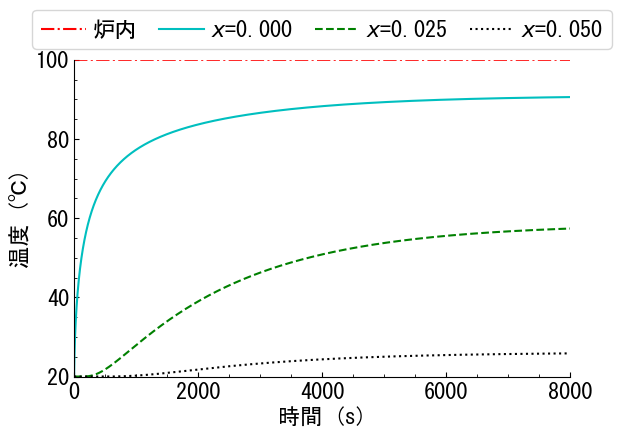
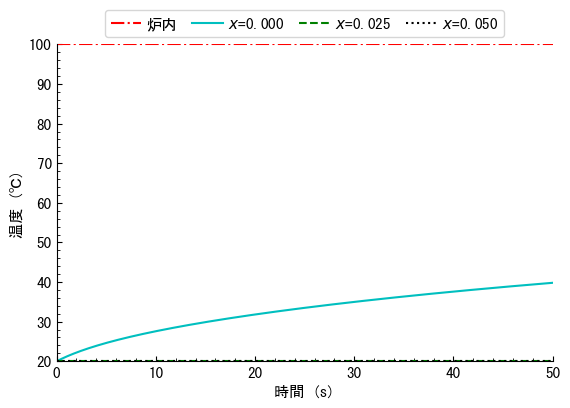
シミュレーターver.2 卒論本文2

diff --git a/main.py b/main.py
@@ -6,9 +6,9 @@ from config import N_CELL, T_0_WD, T_AIR_1, T_AIR_2_100, ALPHA_WD, D_t, D_X, q_F
 
 fig_number = 6
 #フォルダ
-folder_name = '100℃一定片面'
+# folder_name = '100℃一定片面'
 # folder_name = '100℃一定両面'
-# folder_name = '標準加熱曲線'
+folder_name = '標準加熱曲線'
 if folder_name == '100℃一定片面':
     TIME_END = TIME_END_100
     T_AIR = T_AIR_1
@@ -23,8 +23,8 @@ if folder_name == '標準加熱曲線':
 N_TIME = int(TIME_END / D_t)  #[個]　秒の区切りの個数、0秒を入れる場合は+1する
 
 #グラフタイトル
-# fig_title = '標準加熱曲線'
-fig_title = '温度推移'
+fig_title = '標準加熱曲線'
+# fig_title = '温度推移'
 # fig_title = '温度分布'
 #比較
 # comparison = '密度'
@@ -97,20 +97,13 @@ for n in range(N_TIME + 1):
 
             if x == 0:
                 #y_axis.append(h_air)
-                T_wd[n][0] = T_wd[n - 1][0] + (ALPHA_WD * D_t / (D_X**2)) * (T_wd[n - 1][1] - T_wd[
-                    n - 1][0]) + (D_t * h_air / (D_X * rho_c_wd)) * (T_fu - T_wd[n - 1][0]) + (
-                        D_t * q_FU) / (D_X * rho_c_wd) + (D_t * q_GEN) / rho_c_wd
+                T_wd[n][0] = T_wd[n - 1][0] + (ALPHA_WD * D_t / (D_X**2)) * (T_wd[n - 1][1] - T_wd[n - 1][0]) + (D_t * h_air / (D_X * rho_c_wd)) * (T_fu - T_wd[n - 1][0]) + (D_t * q_FU) / (D_X * rho_c_wd) + (D_t * q_GEN) / rho_c_wd
                 #DO:差分法の実例がある本探す　#iPadで算出した左はじの式 TODO:内部発熱(最後の項）を考慮する（炭化について）TODO:輻射（最後から2番目の項）の考え方、おそらく違うので再考
             elif 0 < x < N_CELL:
-                T_wd[n][x] = T_wd[n - 1][x] + (ALPHA_WD * D_t / (D_X**2)) * (T_wd[n - 1][
-                    x - 1] + T_wd[n - 1][x + 1] - 2 * T_wd[n - 1][x]) + (D_t * q_GEN) / rho_c_wd
+                T_wd[n][x] = T_wd[n - 1][x] + (ALPHA_WD * D_t / (D_X**2)) * (T_wd[n - 1][x - 1] + T_wd[n - 1][x + 1] - 2 * T_wd[n - 1][x]) + (D_t * q_GEN) / rho_c_wd
                 #TODO:内部発熱(最後の項）を考慮する（炭化について）
             elif x == N_CELL:
-                T_wd[n][N_CELL] = T_wd[n - 1][N_CELL] + (ALPHA_WD * D_t / (D_X**2)) * (
-                    T_wd[n - 1][N_CELL - 1] - T_wd[n - 1][N_CELL]) - (
-                        D_t * h_air /
-                        (D_X * rho_c_wd)) * (T_wd[n - 1][N_CELL] - T_AIR) + (D_t * q_GEN) / rho_c_wd
-                #DO:試験体の厚さを十分厚くすれば、非加熱面の状態を考慮しなくていい
+                T_wd[n][N_CELL] = T_wd[n - 1][N_CELL] + (ALPHA_WD * D_t / (D_X**2)) * (T_wd[n - 1][N_CELL - 1] - T_wd[n - 1][N_CELL]) - (D_t * h_air / (D_X * rho_c_wd)) * (T_wd[n - 1][N_CELL] - T_AIR) + (D_t * q_GEN) / rho_c_wd
                 #TODO:内部発熱(最後の項）を考慮する（炭化について）DO:難燃処理層最後尾の次をどう考えるか（荷重支持部表面？長田さんは炉内温度？一面加熱だから、布施さんの外温と同じ？）
 
             # if fig_title == '':
@@ -182,11 +175,7 @@ if folder_name == '100℃一定片面' or folder_name == '100℃一定両面':
         plt.plot(x_axis, y_axis_2, "-c", label='$ \mathit{x} $=0.000')
         plt.plot(x_axis, y_axis_3, "--g", label='$ \mathit{x} $=0.025')
         plt.plot(x_axis, y_axis_4, ":k", label='$ \mathit{x} $=0.050')
-        plt.legend(loc='lower center',
-                   bbox_to_anchor=(0.5, 1),
-                   ncol=4,
-                   columnspacing=1,
-                   handletextpad=0.32)  #凡例
+        plt.legend(loc='lower center', bbox_to_anchor=(0.5, 1), ncol=4, columnspacing=1, handletextpad=0.32)  #凡例
 
     if fig_title == '温度分布':
         #軸範囲
@@ -203,6 +192,7 @@ if folder_name == '標準加熱曲線':
         #軸範囲
         plt.xlim(0, TIME_END)  #x軸範囲
         plt.ylim(0, 350)  #y軸範囲
+        # plt.ylim(0, 1200)  #y軸範囲
         plt.plot(x_axis, y_axis, '-', color="black")  #プロット
     if fig_title == '温度推移':
         #軸範囲

diff --git a/config.py b/config.py
@@ -1,15 +1,16 @@
 TIME_END_100 = 8000  #[s]　加熱時間(100℃一定)
 TIME_END_HEAT_RESISTANCE = 50  #[s]　加熱時間(標準加熱曲線)
+# TIME_END_HEAT_RESISTANCE = 180 * 60  #[s]　加熱時間(標準加熱曲線)
 LENGTH = 50 / 1000  #[m]　試験体厚さ
 N_CELL = 50  #[個]　セルの個数 50以上が良さげ、50→250でおしりが1℃上昇
 D_t = 0.1  #[s]　単位時間
 
-q_FU = 0.0 * 1000  #[W/m²]　輻射 TODO:一旦輻射以外で考える。てか、表面温度を入力(既知と)して、その後ろをかんがえる。
+q_FU = 0.0 * 1000  #[W/m²]　輻射 (hに含まれているとした)
 q_GEN = 0.0  #[W/m³]　内部発熱
 T_0_WD = 20.0  #[℃]　木材の初期温度
 T_AIR_1 = 20  #[℃]
 T_AIR_2_100 = 100  #[℃]
 RHO_WD_0 = 350.0  #[kg/m³] 全乾密度　引用:木材の物理p37
-ALPHA_WD = 0.18 / 10**6  #[m²/s] TODO:高温域まで対応してる式かどうかTODO:一定値としていいのかな？引用:木材の物理p63、先生に確認
+ALPHA_WD = 0.18 / 10**6  #[m²/s] 引用:木材の物理p63、先生に確認
 D_X = LENGTH / N_CELL  #[m]　セルの幅
 # N_TIME = int(TIME_END / D_t)  #[個]　秒の区切りの個数、0秒を入れる場合は+1する

diff --git a/functions.py b/functions.py
@@ -24,7 +24,7 @@ def get_h_air_wd(T_wd):
         W/m²*K: 熱伝達率
     """
     return 0.168 * T_wd + 4.64
-    #考察:引用:由田、式9,10、加熱面,非加熱面同じ式のため、非加熱面ではあるが空気と木材の式10を採用、式中の温度は低温度側の物質の温度を採用してそう？もしくは着目する物体？
+    #考察:引用:由田、式9,10、加熱面,非加熱面同じ式のため、非加熱面ではあるが空気と木材の式10を採用
 
 
 def get_lambda_wd(T_wd, T1_wd=20, lambda1=0.09, rho_wd_0=RHO_WD_0):
@@ -40,7 +40,7 @@ def get_lambda_wd(T_wd, T1_wd=20, lambda1=0.09, rho_wd_0=RHO_WD_0):
         W/m*K:求めたい木材の熱伝導率 
     """
     return lambda1 * (1 - (1.1 - 0.00098 * rho_wd_0) * (T1_wd - T_wd) / 100)
-    #TODO:高温域まで対応してる式かどうか#考察:引用の式がおそらく違うため、改編版引用:木材の物理p63(4-12)
+    #考察:引用元の式がおそらく違うため、改編版引用:木材の物理p63(4-12)
 
 
 def get_lambda_wd_0(T_wd, T1_wd=20, rho_wd_0=RHO_WD_0):

diff --git a/functions_d.py b/functions_d.py
@@ -40,7 +40,7 @@ def get_lambda_wd(rho_wd_0, T_wd, T1_wd=20, lambda1=0.09):
         W/m*K:求めたい木材の熱伝導率 
     """
     return lambda1 * (1 - (1.1 - 0.00098 * rho_wd_0) * (T1_wd - T_wd) / 100)
-    #TODO:高温域まで対応してる式かどうか#考察:引用の式がおそらく違うため、改編版引用:木材の物理p63(4-12)
+    #考察:引用の式がおそらく違うため、改編版引用:木材の物理p63(4-12)
 
 
 def get_lambda_wd_0(rho_wd_0, T_wd, T1_wd=20):
